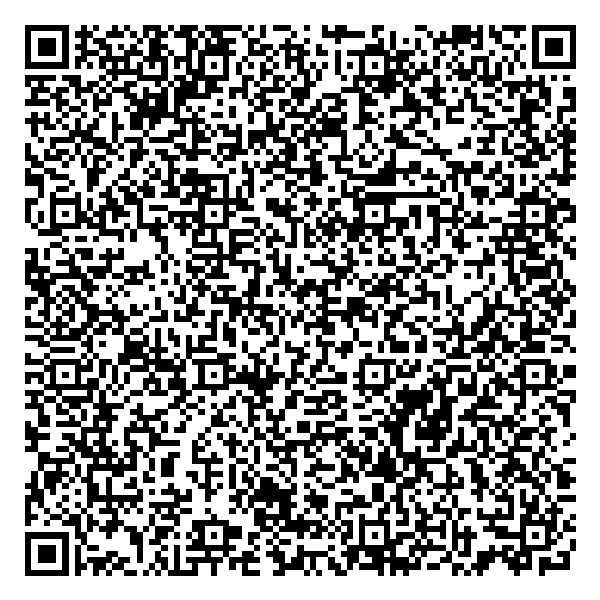
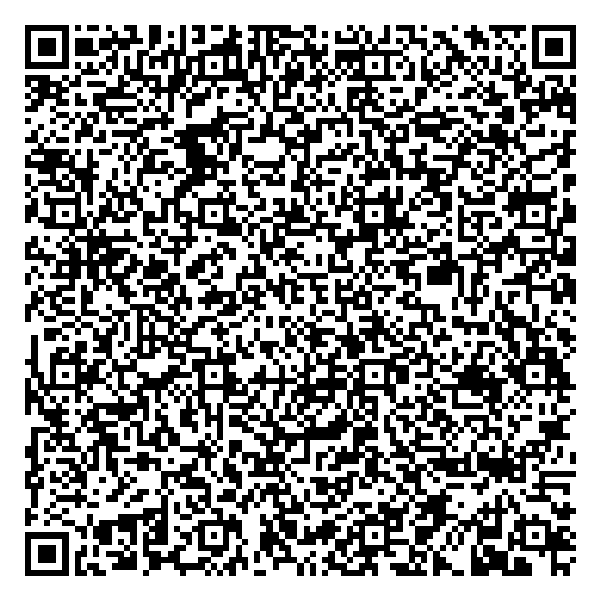
save raw jws

diff --git a/make-card/index.js b/make-card/index.js
@@ -61,7 +61,10 @@ jose.JWK.asKeyStore(json5.parse(fs.readFileSync(KEYSTORE_PATH)))
   });
 
 function generateStuff(jws) {
-  console.log(`jws length: ${jws.length}`);
+
+  console.log(`writing unencrypted jws to jws-raw.txt (length: ${jws.length})`);
+  fs.writeFileSync(cardDir + 'jws-raw.txt', jws);
+  
   generateSHC(jws);
   generateSHL(jws);
 }
